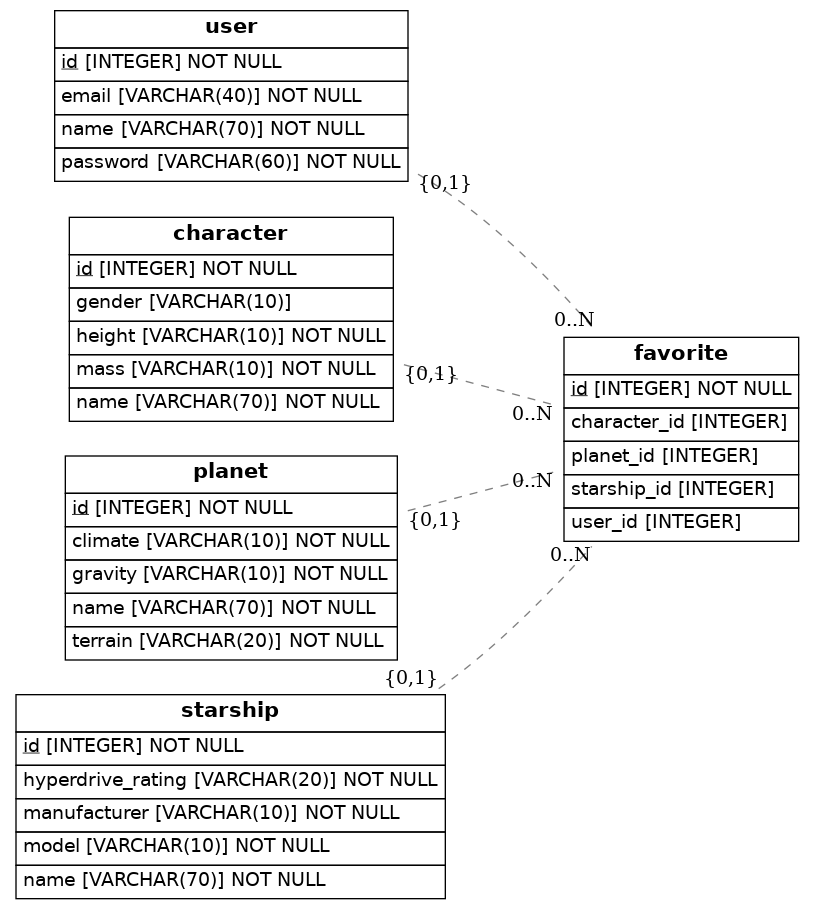
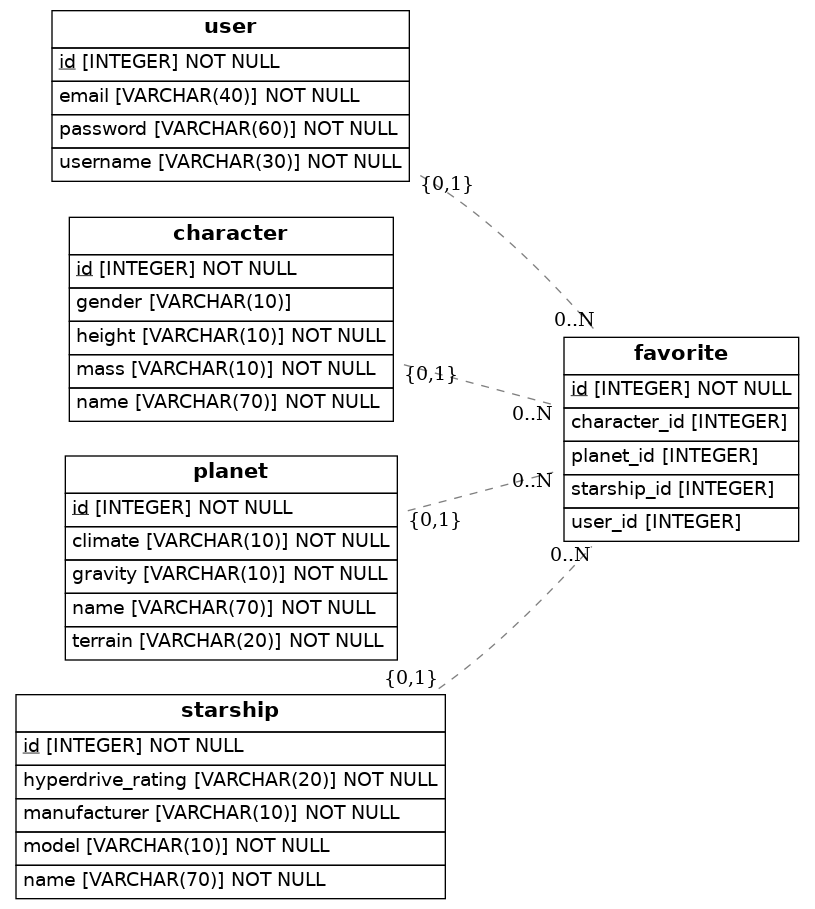
removed unnecesary code

Changed region(s): [[0.0613, 0.0, 0.5828, 0.2156]]

diff --git a/src/models.py b/src/models.py
@@ -49,79 +49,5 @@ class Favorite(Base):
     starship_id = Column(Integer, ForeignKey("starship.id"))
 
 
-
-class User(Base):
-    __tablename__ = 'user'
-    id = Column(Integer, primary_key=True)
-    email = Column(String(40), unique=True, nullable=False)
-    username = Column(String(30), nullable=False)
-    password = Column(String(60), nullable=False)
-
-class Post(Base):
-     __tablename__ = 'post'
-    id = Column(Integer, primary_key=True)
-    image_url = Column(String)
-    description = Column(Text, nullable=False)
-    user_id = Column(Integer, ForeignKey("user.id"))
-
-class Like(Base):
-    __tablename__ = 'like'
-    id = Column(Integer, primary_key=True)
-    user_id = Column(Integer, ForeignKey("user.id"))
-    post_id = Column(Integer, ForeignKey("post.id"))
-    
-class Comment(Base):
-    __tablename__ = 'comment'
-    id = Column(Integer, primary_key=True)
-    user_id = Column(Integer, ForeignKey("user.id"))
-    post_id = Column(Integer, ForeignKey("post.id"))
-
-
-# class Parent(Base):
-#     __tablename__ = 'parent'
-#     id = Column(Integer, primary_key=True)
-#     name = Column(String(50), nullable=False)
-#     child = relationship('Child', back_populates='parent', uselist=False)
-
-
-# class Child(Base):
-#     __tablename__ = 'child'
-#     id = Column(Integer, primary_key=True)
-#     name = Column(String(50), nullable=False)
-#     parent_id = Column(Integer, ForeignKey("parent.id"))
-
-
-
-#########################################################
-
-# class Post(Base):
-#     __tablename__ = 'post'
-#     id = Column(Integer, primary_key=True)
-#     description = Column(Text, nullable=False)
-#     user_id = Column(Integer, ForeignKey("user.id"))
-
-#########################################################
-
-# class Person(Base):
-#     __tablename__ = 'person'
-#     # Here we define columns for the table person
-#     # Notice that each column is also a normal Python instance attribute.
-#     id = Column(Integer, primary_key=True)
-#     name = Column(String(250), nullable=False)
-
-# class Address(Base):
-#     __tablename__ = 'address'
-#     # Here we define columns for the table address.
-#     # Notice that each column is also a normal Python instance attribute.
-#     id = Column(Integer, primary_key=True)
-#     street_name = Column(String(250))
-#     street_number = Column(String(250))
-#     post_code = Column(String(250), nullable=False)
-#     person_id = Column(Integer, ForeignKey('person.id'))
-#     person = relationship(Person)
-
-#     def to_dict(self):
-#         return {}
-
 ## Draw from SQLAlchemy base
 render_er(Base, 'diagram.png')
